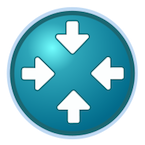
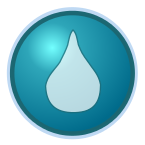
Updated hint image

diff --git a/js/game.js b/js/game.js
@@ -21,7 +21,7 @@ gameStep.prototype = {
         game.load.image('background', 'assets/grid.png');
         for (var i = 0; i < this.tools.length; i++) {
             var toolName = this.tools[i]
-            game.load.image(toolName, 'assets/'+toolName+'.png');
+            game.load.image(toolName, 'assets/'+toolName+'.png?v=1');
         };
         game.load.image('enter', 'assets/enter.png');
         game.load.image('beamUp', 'assets/beamUp2.png');
@@ -32,7 +32,6 @@ gameStep.prototype = {
         game.load.image('playButton', 'assets/play.png');
         game.load.image('pauseButton', 'assets/pause.png');
         game.load.image('in', 'assets/in.png');
-        game.load.image('grabdrop', 'assets/grabdrop.png');
         game.load.image('orb', 'assets/Flameless2.png');
 
     },
@@ -46,7 +45,7 @@ gameStep.prototype = {
             this.toolsPalette[toolName].onInstructionPlaced = this.traceBeam;
         };
         this.inPoint = {'x':32*11,'y':32*7};
-        var inGhost = this.add.sprite(this.inPoint.x, this.inPoint.y ,'in');
+        var inGhost = this.add.sprite(this.inPoint.x, this.inPoint.y ,'grabdrop');
         inGhost.alpha = 0.5;
         inGhost.anchor.set(0.5);
         inGhost.scale.set(0.25);

diff --git a/index.html b/index.html
@@ -2,13 +2,15 @@
 <html>
     <head>
         <meta charset="UTF-8" />
-        <title>hello phaser!</title>
+        <title>PhaserChem</title>
         <script src="js/phaser.min.js"></script>
 		<script src="js/jquery.min.js"></script>
         <script src="js/phaserPaletteTools.js"></script>
 		<script src="js/game.js"></script>
 		<script src="js/menu.js"></script>
 		<script src="js/core.js"></script>
+        <meta name="apple-mobile-web-app-capable" content="yes">
+        <meta name = "viewport" content = "width = device-width, initial-scale = 1.0, user-scalable = no">
     </head>
     <body>
     	<div id='gameDiv'></div>
